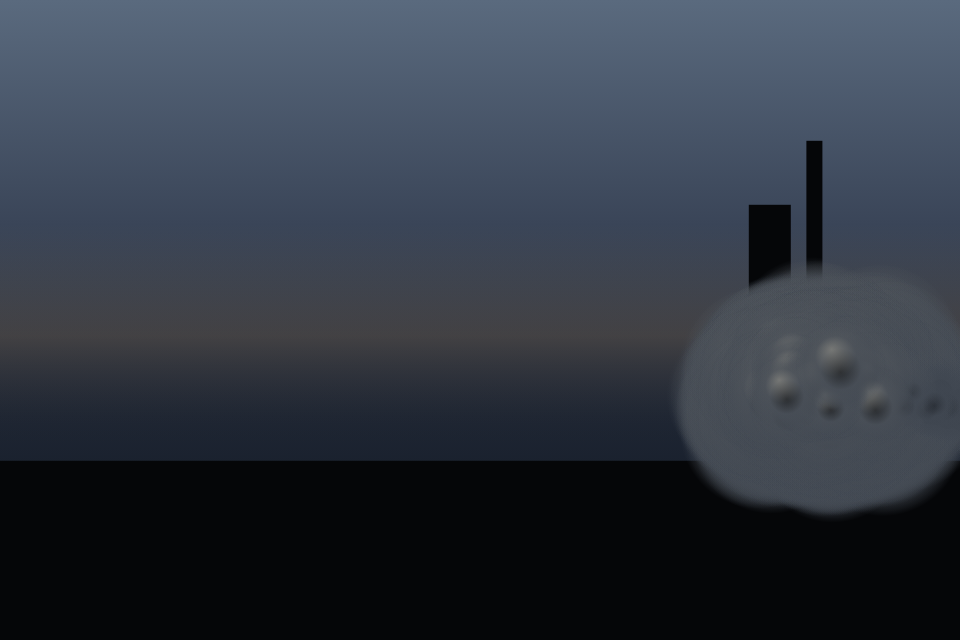
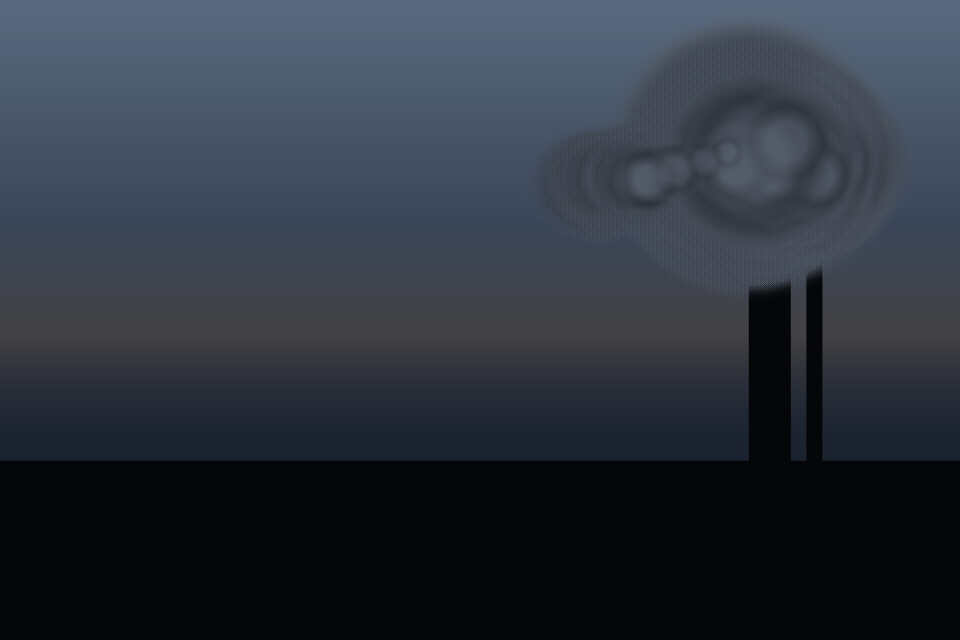
Gauntlet: wind-sheared horizontal smoke plume capture

Changed region(s): [[0.5938, 0.0312, 1.0, 0.8125], [0.6562, 0.3125, 0.6875, 0.3438]]

diff --git a/src/effects/smoke.ts b/src/effects/smoke.ts
@@ -31,10 +31,10 @@ function spawnPuff(rand: () => number, params: SmokeParams): Puff {
     x: (rand() - 0.5) * 12 * params.spread,
     y: (rand() - 0.5) * 6,
     life: rand() * 0.15,
-    maxLife: 2.8 + rand() * 4,
-    vx: (rand() - 0.5) * 6,
-    vy: -(6 + rand() * 14) * params.rise,
-    size: 22 + rand() * 34,
+    maxLife: 3.5 + rand() * 5,
+    vx: (rand() - 0.5) * 4,
+    vy: -(4 + rand() * 10) * params.rise,
+    size: 14 + rand() * 22,
     seed: rand() * 1000,
     bumps: 3 + Math.floor(rand() * 4),
   };
@@ -46,7 +46,7 @@ function ensurePool(params: SmokeParams): Puff[] {
     pool = [];
     pools.set(params.instanceId, pool);
   }
-  const target = Math.floor(42 + params.density * 90 * params.intensity);
+  const target = Math.floor(70 + params.density * 140 * params.intensity);
   const rand = mulberry32(params.seed | 0);
   while (pool.length < target) pool.push(spawnPuff(rand, params));
   if (pool.length > target) pool.length = target;
@@ -98,13 +98,14 @@ export const drawSmoke: DrawFn<SmokeParams> = (ctx, params, t, scene) => {
       p.life += dt;
       const n1 = fbm2(p.x * 0.018 + p.seed, t * 0.38 + p.y * 0.01, 4, params.seed);
       const n2 = fbm2(p.y * 0.018, t * 0.3 + p.seed, 3, params.seed + 17);
-      p.vx += (n1 * 28 * params.turbulence + wind * 55) * dt;
-      p.vy += (-4.5 * params.rise + n2 * 10 * params.turbulence) * dt;
-      p.vx *= 1 - 0.1 * dt;
-      p.vy *= 1 - 0.05 * dt;
+      p.vx += (n1 * 22 * params.turbulence + wind * 72) * dt;
+      p.vy += (-2.5 * params.rise + n2 * 8 * params.turbulence + Math.abs(wind) * 4 * dt) * dt;
+      p.vx *= 1 - 0.06 * dt;
+      p.vy *= 1 - 0.04 * dt;
       p.x += p.vx * dt;
       p.y += p.vy * dt;
-      p.size += (14 + params.size * 10) * soft * (0.55 + p.life * 0.22) * dt;
+      // Expand more as travels downwind
+      p.size += (16 + params.size * 12) * soft * (0.5 + p.life * 0.35) * (1 + Math.abs(wind) * 0.15) * dt;
       if (p.life >= p.maxLife) Object.assign(p, spawnPuff(rand, params));
     }
 

diff --git a/src/captureMain.ts b/src/captureMain.ts
@@ -116,7 +116,7 @@ function paintBg(kind: string) {
 }
 
 const scene =
-  fx === 'smoke' ? makeScene(1.35) : fx === 'water' ? makeScene(0.05) : makeScene(0.12);
+  fx === 'smoke' ? makeScene(-1.45) : fx === 'water' ? makeScene(0.05) : makeScene(0.12);
 
 let t = 0;
 let drawing: (tt: number) => void = () => {};
@@ -139,20 +139,20 @@ if (fx === 'fire') {
   const p: SmokeParams = {
     ...smokeEffect.defaultParams,
     instanceId: 'cap-smoke',
-    x: W * 0.86,
-    y: H * 0.28,
-    size: 1.9,
-    spread: 1.5,
-    rise: 0.35,
-    density: 1.15,
-    turbulence: 0.95,
-    intensity: 1.1,
+    x: W * 0.88,
+    y: H * 0.26,
+    size: 1.55,
+    spread: 0.9,
+    rise: 0.25,
+    density: 1.25,
+    turbulence: 1.1,
+    intensity: 1.15,
     material: createDefaultMaterial({
       name: 'Plume',
-      baseColor: '#4a5360',
-      emissive: '#e0d2b4',
-      emissiveIntensity: 0.45,
-      opacity: 0.97,
+      baseColor: '#3a424c',
+      emissive: '#d8c9a8',
+      emissiveIntensity: 0.5,
+      opacity: 0.98,
       roughness: 0.92,
       metalness: 0.05,
       blend: 'normal',
